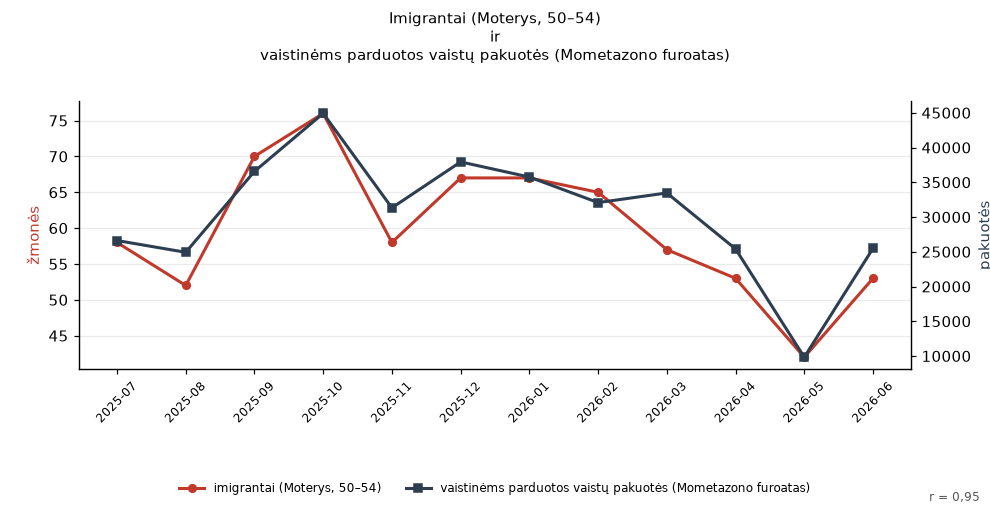
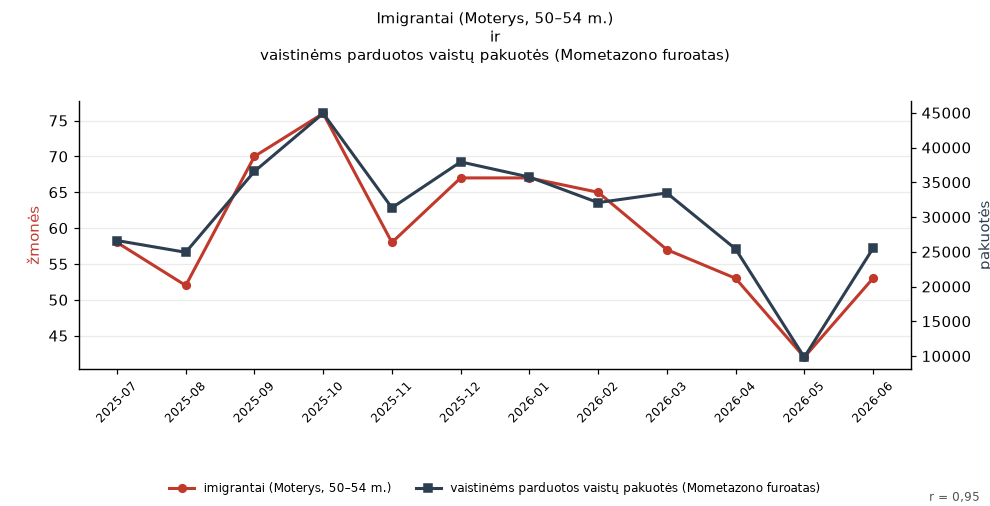
Relabel age group

Changed region(s): [[0.1818, 0.9486, 0.8485, 0.9783], [0.3636, 0.0, 0.6061, 0.0593]]

diff --git a/post/2026-10-23-3d4ec773/index.html b/post/2026-10-23-3d4ec773/index.html
@@ -1,10 +1,10 @@
 <!doctype html>
 <html lang="lt"><head><meta charset="utf-8">
 <meta name="viewport" content="width=device-width, initial-scale=1">
-<title>Pastaraisiais mėnesiais lyg tyčia sutapo: imigrantai (Moterys, 50–54) ir vaistinėms parduotos vaistų pakuotės (Mometazono furoatas) · Lyg tyčia</title>
+<title>Pastaraisiais mėnesiais lyg tyčia sutapo: imigrantai (Moterys, 50–54 m.) ir vaistinėms parduotos vaistų pakuotės (Mometazono furoatas) · Lyg tyčia</title>
 <meta property="og:type" content="article">
 <meta property="og:site_name" content="Lyg tyčia">
-<meta property="og:title" content="Pastaraisiais mėnesiais lyg tyčia sutapo: imigrantai (Moterys, 50–54) ir vaistinėms parduotos vaistų pakuotės (Mometazono furoatas)">
+<meta property="og:title" content="Pastaraisiais mėnesiais lyg tyčia sutapo: imigrantai (Moterys, 50–54 m.) ir vaistinėms parduotos vaistų pakuotės (Mometazono furoatas)">
 <meta property="og:description" content="Imigrantai (Moterys, 50–54) ir vaistinėms parduotos vaistų pakuotės (Mometazono furoatas) kyla ir krenta kartu: r = 0,95 per 12 mėn. (2025-07 – 2026-06).">
 <meta property="og:url" content="https://1gnas3000.github.io/lygtycia/post/2026-10-23-3d4ec773/">
 <meta property="og:image" content="https://1gnas3000.github.io/lygtycia/post/2026-10-23-3d4ec773/chart.png">
@@ -26,21 +26,21 @@
 <article><p class="meta">2026-10-23
  · panašios kreivės · mėnesio duomenys
  · r = 0,95</p>
-<h2>Pastaraisiais mėnesiais lyg tyčia sutapo: imigrantai (Moterys, 50–54) ir vaistinėms parduotos vaistų pakuotės (Mometazono furoatas)</h2>
+<h2>Pastaraisiais mėnesiais lyg tyčia sutapo: imigrantai (Moterys, 50–54 m.) ir vaistinėms parduotos vaistų pakuotės (Mometazono furoatas)</h2>
 
 <p><a href="../../post/2026-10-23-3d4ec773/"><img src="../../post/2026-10-23-3d4ec773/chart.png"
  alt="grafikas" loading="lazy"></a></p>
 <p class="sources">Duomenų šaltiniai:
  <a href="https://osp.stat.gov.lt/statistiniu-rodikliu-analize?indicator=S3R846" rel="noopener">Imigrantai per mėnesį (Valstybės duomenų agentūra)</a> · <a href="https://get.data.gov.lt/datasets/gov/vvkt/pakuociu_pardavimai/ParduotaPakuote" rel="noopener">Vaistų pakuočių pardavimai (VVKT)</a></p>
 
-<p class="text">Imigrantai (Moterys, 50–54) ir vaistinėms parduotos vaistų pakuotės (Mometazono furoatas) kyla ir krenta kartu: r = 0,95 per 12 mėn. (2025-07 – 2026-06).</p><p class="text">Duomenys: „imigrantai (Moterys, 50–54)“ (žmonės) ir „vaistinėms parduotos vaistų pakuotės (Mometazono furoatas)“ (pakuotės).</p><p class="text">Tyler Vigen&#39;o „Spurious Correlations“ dvasia: iš tūkstančių atsitiktinių Lietuvos atvirų duomenų porų šios dvi nupiešė tą pačią kreivę.</p>
+<p class="text">Imigrantai (Moterys, 50–54) ir vaistinėms parduotos vaistų pakuotės (Mometazono furoatas) kyla ir krenta kartu: r = 0,95 per 12 mėn. (2025-07 – 2026-06).</p><p class="text">Duomenys: „imigrantai (Moterys, 50–54 m.)“ (žmonės) ir „vaistinėms parduotos vaistų pakuotės (Mometazono furoatas)“ (pakuotės).</p><p class="text">Tyler Vigen&#39;o „Spurious Correlations“ dvasia: iš tūkstančių atsitiktinių Lietuvos atvirų duomenų porų šios dvi nupiešė tą pačią kreivę.</p>
 <p class="share">Dalintis:
  <a href="https://www.facebook.com/sharer/sharer.php?u=https%3A//1gnas3000.github.io/lygtycia/post/2026-10-23-3d4ec773/"
  rel="noopener">Facebook</a> ·
- <a href="https://mastodonshare.com/?text=Pastaraisiais%20m%C4%97nesiais%20lyg%20ty%C4%8Dia%20sutapo%3A%20imigrantai%20%28Moterys%2C%2050%E2%80%9354%29%20ir%20vaistin%C4%97ms%20parduotos%20vaist%C5%B3%20pakuot%C4%97s%20%28Mometazono%20furoatas%29&url=https%3A//1gnas3000.github.io/lygtycia/post/2026-10-23-3d4ec773/"
+ <a href="https://mastodonshare.com/?text=Pastaraisiais%20m%C4%97nesiais%20lyg%20ty%C4%8Dia%20sutapo%3A%20imigrantai%20%28Moterys%2C%2050%E2%80%9354%20m.%29%20ir%20vaistin%C4%97ms%20parduotos%20vaist%C5%B3%20pakuot%C4%97s%20%28Mometazono%20furoatas%29&url=https%3A//1gnas3000.github.io/lygtycia/post/2026-10-23-3d4ec773/"
  rel="noopener">Mastodon</a> ·
  <a href="https://www.linkedin.com/sharing/share-offsite/?url=https%3A//1gnas3000.github.io/lygtycia/post/2026-10-23-3d4ec773/"
  rel="noopener">LinkedIn</a></p>
-<p class="note">Eilutės: imigrantai_per_menesi#group=Moterys, 50–54#value → vaistu_pardavimai#drug=Mometazono furoatas#packages</p>
+<p class="note">Eilutės: imigrantai_per_menesi#group=Moterys, 50–54 m.#value → vaistu_pardavimai#drug=Mometazono furoatas#packages</p>
 <p><a href="../../">← visi įrašai</a></p></article>
 </body></html>

diff --git a/index.html b/index.html
@@ -146,7 +146,7 @@
  <a href="https://www.linkedin.com/sharing/share-offsite/?url=https%3A//1gnas3000.github.io/lygtycia/post/2026-10-23-4cefc883/"
  rel="noopener">LinkedIn</a></p></article>
 <article><p class="meta">2026-10-23</p>
-<h2><a href="./post/2026-10-23-3d4ec773/">Pastaraisiais mėnesiais lyg tyčia sutapo: imigrantai (Moterys, 50–54) ir vaistinėms parduotos vaistų pakuotės (Mometazono furoatas)</a></h2>
+<h2><a href="./post/2026-10-23-3d4ec773/">Pastaraisiais mėnesiais lyg tyčia sutapo: imigrantai (Moterys, 50–54 m.) ir vaistinėms parduotos vaistų pakuotės (Mometazono furoatas)</a></h2>
 
 <p><a href="./post/2026-10-23-3d4ec773/"><img src="./post/2026-10-23-3d4ec773/chart.png"
  alt="grafikas" loading="lazy"></a></p>
@@ -157,7 +157,7 @@
 <p class="share">Dalintis:
  <a href="https://www.facebook.com/sharer/sharer.php?u=https%3A//1gnas3000.github.io/lygtycia/post/2026-10-23-3d4ec773/"
  rel="noopener">Facebook</a> ·
- <a href="https://mastodonshare.com/?text=Pastaraisiais%20m%C4%97nesiais%20lyg%20ty%C4%8Dia%20sutapo%3A%20imigrantai%20%28Moterys%2C%2050%E2%80%9354%29%20ir%20vaistin%C4%97ms%20parduotos%20vaist%C5%B3%20pakuot%C4%97s%20%28Mometazono%20furoatas%29&url=https%3A//1gnas3000.github.io/lygtycia/post/2026-10-23-3d4ec773/"
+ <a href="https://mastodonshare.com/?text=Pastaraisiais%20m%C4%97nesiais%20lyg%20ty%C4%8Dia%20sutapo%3A%20imigrantai%20%28Moterys%2C%2050%E2%80%9354%20m.%29%20ir%20vaistin%C4%97ms%20parduotos%20vaist%C5%B3%20pakuot%C4%97s%20%28Mometazono%20furoatas%29&url=https%3A//1gnas3000.github.io/lygtycia/post/2026-10-23-3d4ec773/"
  rel="noopener">Mastodon</a> ·
  <a href="https://www.linkedin.com/sharing/share-offsite/?url=https%3A//1gnas3000.github.io/lygtycia/post/2026-10-23-3d4ec773/"
  rel="noopener">LinkedIn</a></p></article>
